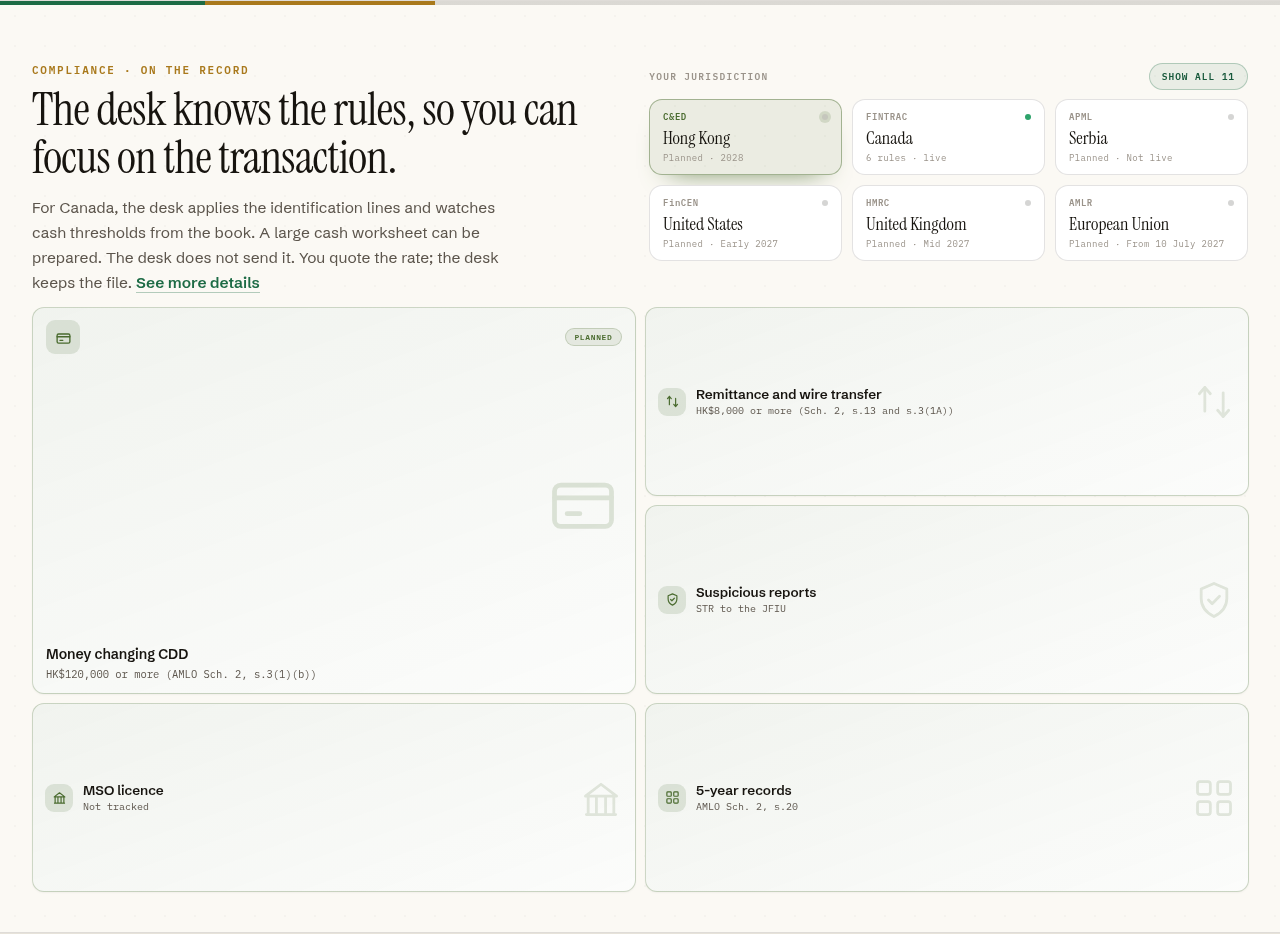
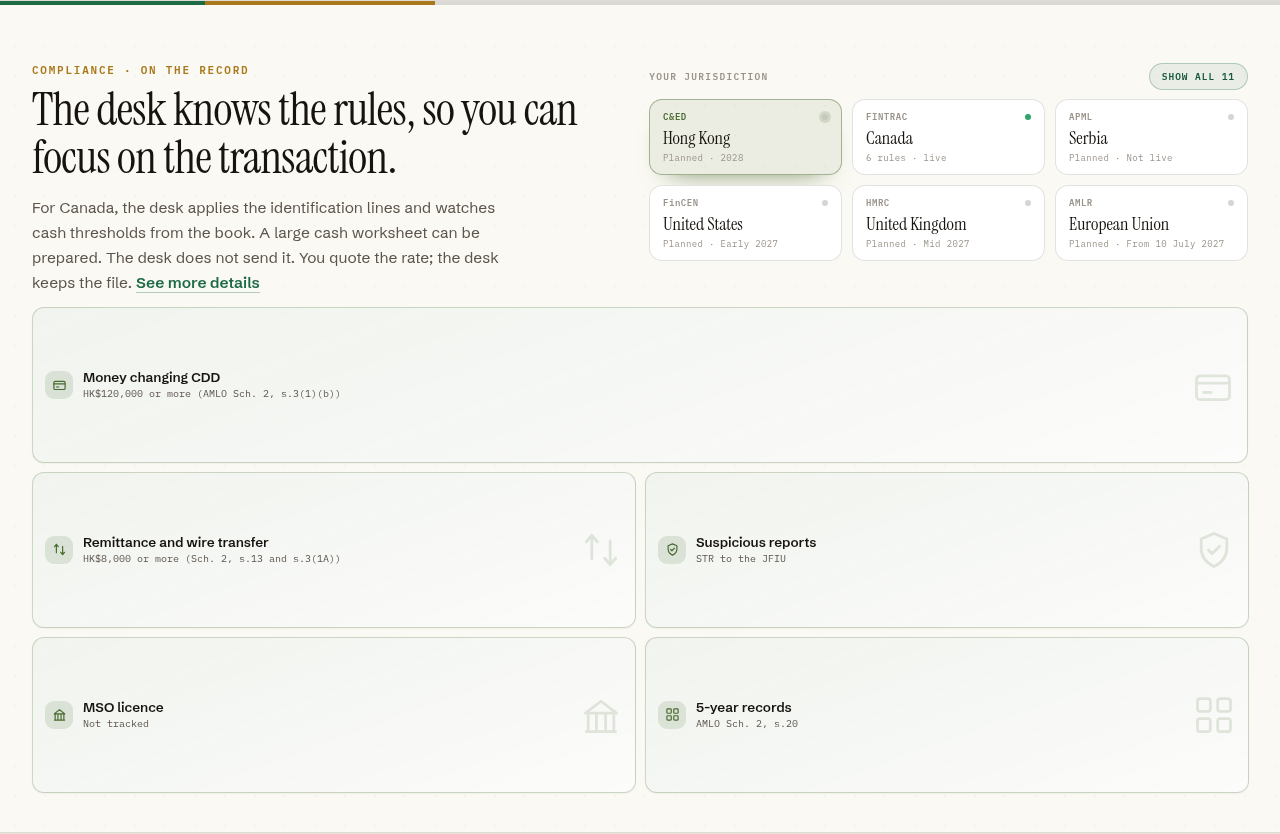
fix: keep the Hong Kong money-changing card one row tall
Adding the remittance row put that card on two rows of the home grid, so it was tall and mostly empty. Hong Kong now uses one row per card.

diff --git a/design/site/CurrencyDesk Site.dc.html b/design/site/CurrencyDesk Site.dc.html
@@ -1360,7 +1360,11 @@ class Component extends DCLogic {
         });
       })(this),
       jurRules: J.rules.map((r, i) => {
-        const sp = (this.SPANBY[J.rules.length] || [])[i] || [3, 1]; const acc = this.JACC[J.tag];
+        /* Five Hong Kong rows used to put the first card on two rows.
+           That card is one line of text, so the tile was tall and empty.
+           One row each fills the same grid. */
+        const spans = J.tag === 'C&ED' ? [[6,1],[3,1],[3,1],[3,1],[3,1]] : (this.SPANBY[J.rules.length] || []);
+        const sp = spans[i] || [3, 1]; const acc = this.JACC[J.tag];
         const ico = this.CATICON[r.cat] || 'shield';
         const tall = sp[1] > 1;
         return { slot: i, name: r.name, spec: r.spec, tag: r.tag, tall: tall, flat: !tall,

diff --git a/web/index.html b/web/index.html
@@ -1371,7 +1371,11 @@ class Component extends DCLogic {
         });
       })(this),
       jurRules: J.rules.map((r, i) => {
-        const sp = (this.SPANBY[J.rules.length] || [])[i] || [3, 1]; const acc = this.JACC[J.tag];
+        /* Five Hong Kong rows used to put the first card on two rows.
+           That card is one line of text, so the tile was tall and empty.
+           One row each fills the same grid. */
+        const spans = J.tag === 'C&ED' ? [[6,1],[3,1],[3,1],[3,1],[3,1]] : (this.SPANBY[J.rules.length] || []);
+        const sp = spans[i] || [3, 1]; const acc = this.JACC[J.tag];
         const ico = this.CATICON[r.cat] || 'shield';
         const tall = sp[1] > 1;
         return { slot: i, name: r.name, spec: r.spec, tag: r.tag, tall: tall, flat: !tall,
